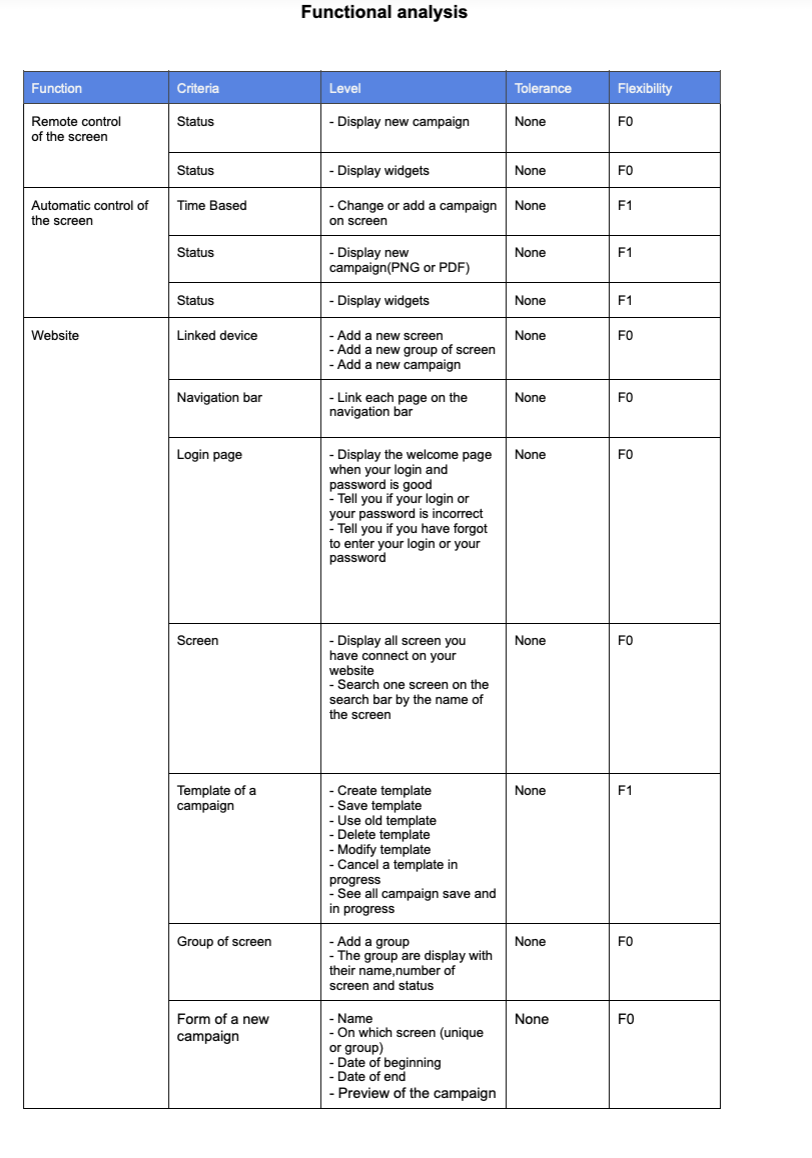
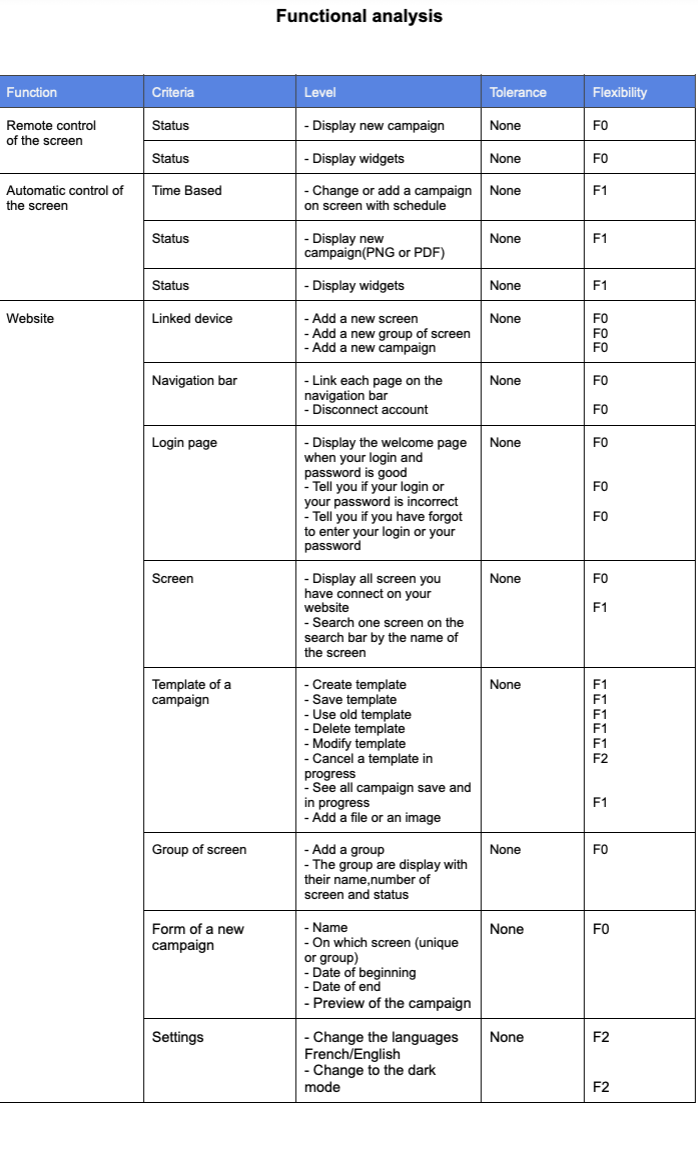
Final functional.md
Final version of the functional

diff --git a/Documents/functional/Functional.md b/Documents/functional/Functional.md
@@ -6,216 +6,220 @@ The author of this functional specification is **Robin Debry**
 <summary style="text-decoration: underline; font-size:150%">Table of contents:</summary>
 
 - [1. Introduction](#1-introduction)
-- [2. Glossary:](#2-glossary)
-- [3. Stakeholders:](#3-stakeholders)
-  - [3.1. The sponsor:](#31-the-sponsor)
-  - [3.2. The engineering team:](#32-the-engineering-team)
-- [4. Monitoring screens in the factory:](#4-monitoring-screens-in-the-factory)
-- [5. Remote control of screen in the factory:](#5-remote-control-of-screen-in-the-factory)
+- [2. Glossary](#2-glossary)
+- [3. Stakeholders](#3-stakeholders)
+  - [3.1. The sponsor](#31-the-sponsor)
+  - [3.2. The engineering team](#32-the-engineering-team)
+- [4. Monitoring screens in the factory](#4-monitoring-screens-in-the-factory)
+- [5. Remote control of the screen in the factory](#5-remote-control-of-the-screen-in-the-factory)
 - [6. Personas:](#6-personas)
-  - [6.1 Content Producer:](#61-content-producer)
-    - [6.1.1. Michael:](#611-michael)
-  - [6.2 Viewers:](#62-viewers)
-    - [6.2.1. Bertrand:](#621-bertrand)
-    - [6.2.2. Pierre:](#622-pierre)
-    - [6.2.3. Akira:](#623-akira)
-- [7. Out of scope:](#7-out-of-scope)
-- [8. User cases:](#8-user-cases)
-- [9. Functional analysis:](#9-functional-analysis)
-- [10. The technology:](#10-the-technology)
-- [11. Improvements for V2?](#11-improvements-for-v2)
-  - [11.1 Software:](#111-software)
-- [12. Non-functional requirements:](#12-non-functional-requirements)
-  - [12.1 Cost:](#121-cost)
-    - [12.1.1 Hardware:](#1211-hardware)
-    - [12.1.2 Software:](#1212-software)
+  - [6.1 Content Producer](#61-content-producer)
+    - [6.1.1. Michael](#611-michael)
+    - [6.1.2. Christine](#612-christine)
+  - [6.2 Viewers](#62-viewers)
+    - [6.2.1. Bertrand](#621-bertrand)
+    - [6.2.2. Pierre](#622-pierre)
+    - [6.2.3. Akira](#623-akira)
+- [7. Out of scope](#7-out-of-scope)
+- [8. User cases](#8-user-cases)
+- [9. Functional analysis](#9-functional-analysis)
+- [10. The technology](#10-the-technology)
+- [11. Improvements for V2](#11-improvements-for-v2)
+  - [11.1 Software](#111-software)
+- [12. Non-functional requirements](#12-non-functional-requirements)
+  - [12.1 Cost](#121-cost)
+    - [12.1.1 Hardware](#1211-hardware)
+    - [12.1.2 Software](#1212-software)
       - [Server Costs](#server-costs)
       - [Maintenance](#maintenance)
       - [Energy consumption](#energy-consumption)
-  - [12.2 Security:](#122-security)
-- [13. Conclusion:](#13-conclusion)
+  - [12.2 Security](#122-security)
+- [13. Conclusion](#13-conclusion)
 </details>
 
----  
+--- 
 
 ## 1. Introduction 
 
-Jacobi Group is world leader in purification solution of air and water, using Activated Carbon, Ion Exchange Resins and Mobile Filtration Units. With its factory in Forges industrial zone since 1956, it has a heritage of being the only French industry manufacturing this unique product and supplying customers like Veolia, Valeo, Honeywell and French Ministry of Defence to name a few. <br>
-The factory in Vierzon is the oldest in the Group however one of the most successful thanks to a flexible and can-do approach.
-Now the Jacobi group want to improve his management.
-They contacted us to created this project to improve the management of the factory
+Jacobi Group is the world leader in purification solutions for air and water, using Activated Carbon, Ion Exchange Resins, and Mobile Filtration Units. With its factory in Forge's industrial zone since 1956, it has a heritage of being the only French industry manufacturing this unique product and supplying customers like Veolia, Valeo, Honeywell, and the French Ministry of Defence, to name a few. <br>
+The factory in Vierzon is the oldest in the Group. However, one of the most successful is thanks to a flexible and can-do approach.
+Now the Jacobi group wants to improve its management.
+They contacted us to create this project to improve the management of the factory.
 
-
-## 2. Glossary:
+## 2. Glossary
 
 - **Jacobi:** The company that we are working for.
-- **GDPR:** The european law that protect the data of the people.
+- **GDPR:** European law protects the data of the people.
 - **HTML:** (HyperText Markup Language) We use this language to create a web page. It is the skeleton of the page. We write all the content as well as its structure. It is the language that the browser understands.
-- **CSS:** (Cascading Style Sheets) This language completes HTML. It allows to format and make more ergonomic the website. It is the flesh that embellishes the skeleton.
+- **CSS:** (Cascading Style Sheets) This language completes HTML. It allows formatting and makes the website more ergonomic. It is the flesh that embellishes the skeleton.
 - **JS:** (JavaScript) It's an object-oriented scripting language. This means that we can make the elements that make up the website dynamic. It is the muscles and joints of the site.
 - **Firebase:** It's a service that allows us to store data in the cloud. It is a database that is hosted on the internet. It is a service that allows us to store data in the cloud. It is a database that is hosted on the internet.
 - **Stakeholders:** The people who are interested in the project.
 
-## 3. Stakeholders:
+## 3. Stakeholders
 
-During this project for Jacobi, there are 2 different kind of stakeholders.
 
-### 3.1. The sponsor:
+During this project for Jacobi, there are two different kinds of stakeholders.
+
+### 3.1. The sponsor
 
 First of all, there is the client, at the beginning of the project it will be represented by Franck JEANNIN, but after it, it will be directly the sponsor: Jacobi. <br>
 
-At Jacobi the aim is to become the most sustainable supplier in the industry. they put their all into their sustainability programmes and do everything we can to have a positive impact on our planet and environment. Their processes are refined so that we make use of any surplus energy, we invest in local communities across the globe, and they are constantly looking for ways to reduce our carbon footprint. They are proud to be a part of the Jacobi Group and they are committed to making a difference. <br> 
+At Jacobi, the aim is to become the most sustainable supplier in the industry. They put their all into their sustainability programs and do everything they can to have a positive impact on our planet and environment. Their processes are refined so that we make use of any surplus energy, we invest in local communities across the globe, and they are constantly looking for ways to reduce our carbon footprint. They are proud to be a part of the Jacobi Group and they are committed to making a difference. <br> 
 
 The Jacobi team who works on this project is composed of:
 - Project owner, Mr. Usman SAEED.
 - Content creator, Mrs. Karen BLANQUE (HR Assistant), Mr. Pierre PAGE (HR Manager), Mr. Nicolas YVELIN (Factory Manager)
-- Power user, Mrs. Karen Blanque
+- Power-user, Mrs. Karen Blanque
 - On-site Installation Manager, Mr. Samuel NEVES (Maintenance Shop Manager)
 
-### 3.2. The engineering team:
+### 3.2. The engineering team
 
-The second stakeholders type is the engineering team who will directly work on the development and the conception of the project. This team his made of 5 people: <br>
+The second stakeholder type is the engineering team who will directly work on the development and the conception of the project. This team is composed of 5 people: <br>
 * Quentin CLEMENT as the project manager.
 * Robin DEBRY as the program manager.
 * Thomas PLANCHARD as the software engineer.
 * Karine VINETTE as the tech lead.
 
-## 4. Monitoring screens in the factory:
+## 4. Monitoring screens in the factory
 
-The most important part for Jacobi is the communication between the factory and the people who work there. It's for that they need a website to display some information by a screen to inform all of employees. <br>
+The most important part for Jacobi is the communication between the factory and the people who work there. It's because they need a website to display some information on a screen to inform all of the employees. <br>
 The importance of the screens in the company is to inform the employees about the news of the company.<br>
-The screens are used to display the news of the company, the weather, the time, the news of the world, the news of the factory, the news of the employees, the news of the canteen, the news of the meeting room, the news of the reception and the news of the locker room. Also you will have information if someone visiting the factory and it will be display for the good room <br>
+The screens are used to display the news of the company, the weather, the time, the news of the world, the news of the factory, the news of the employees, the news of the canteen, the news of the meeting room, the news of the reception and the news of the locker room. Also, you will have information if someone visits the factory and it will be displayed for the good room <br>
 The monitoring of the screen is the main point of the development of this project. <br>
-The user will use an application connected to the others screens with a Wi-Fi connection. <br>
-because of the GDPR, the user will have to log in to the application to be able to see the content of the screen.Also, the user can stay connected to the application without reconnect every time he wants to see or change the content of the screen. <br>
-He should be able to see if the screen is on, if it is off, the actual connection of the screen (with Wi-Fi bar) and the time since the screen is connect (in hours and minutes). <br>
-This function will really be an informative one, it has the role of informing the user of the status of the screen in real time.
+The user will use an application connected to the other screens with a Wi-Fi connection. <br>
+because of the GDPR, the user will have to log in to the application to be able to see the content of the screen. Also, the user can stay connected to the application without reconnecting every time he wants to see or change the content of the screen. <br>
+He should be able to see if the screen is on if it is off, the actual connection of the screen (with Wi-Fi bar) and the time since the screen is connected (in hours and minutes). <br>
+This function will be an informative one, it has the role of informing the user of the status of the screen in real-time.
 
-## 5. Remote control of screen in the factory:
+## 5. Remote control of the screen in the factory
 
 The importance of the remote control of the screen is to be able to change the content of the screen without having to go to the screen. <br>
-Also, the user will be able to change the content of the screen without having to log everytime into the application. <br>
+Also, the user will be able to change the content of the screen without having to log in every time the application. <br>
 The user will be able to schedule the content of the screen for a precise day and a precise hour <br>
 
 The remote control of the screen is the second parameter to consider during this project. <br>
-The user will be able to manage the others screens via an application. The user will be able to change the campaign who want on the screen and choose for which screen he want to apply this campaign(one screen or multiple screen).<br>
-The user will also be able to configure an automatic on/off time that he will be able to change at anytime with some precise hours.
+The user will be able to manage the other screens via an application. The user will be able to change the campaign he wants on the screen and choose for which screen he wants to apply this campaign(one screen or multiple screens).<br>
+The user will also be able to configure an automatic on/off time that he will be able to change at any time with some precise hours.
 
 This will be the interactive features between the screen and the user.
 
 ## 6. Personas:
 
-### 6.1 Content Producer:
+### 6.1 Content Producer
 
-The content producer is the person who will create or/and implement the content of the screen.
+The content producer is the person who will create or/and implement the content on the screen.
 He will be able to create a campaign and choose the content of the campaign. <br>
 
-#### 6.1.1. Michael:
-Michael has been the content creator of Jacobi since April 2022. He is 43 years old married with 2 children who are now adults. He loves sport and road trips with his husband during his free time. he lives in Bourges, he takes the train every morning and evening. <br>
-His job is to recruit people in the company and he will produce some content to the others screen. <br>
+#### 6.1.1. Michael
+Michael has been the content creator of Jacobi since April 2022. He is 43 years old, married with two children who are now adults. He loves sports and road trips with his husband during his free time. He lives in Bourges. He takes the train every morning and evening. <br>
+His job is to recruit people in the company and he will produce some content for the other's screen. <br>
 He is a power user of the application and he will use it to manage the screen in the company.<br>
 With these improvements, he will inform the workers of the company if there is a problem in the factory and he will be able to inform them of the new campaign of the company.<br>
-Also with the website she will be able to know if a screen is on or off and if it is connected to the Wi-Fi.
+Also with the website she will be able to know if a screen is turned on or turned off and if the screen is connected to the Wi-Fi.
 
-### 6.2 Viewers:
+#### 6.1.2. Christine
+Christine has been the CEO of Jacobi since January 2022 and she is 45 years old. She is married with four children who are now adults. She loves reading during her free time. She lives in Paris, she takes the train every morning and evening. <br>
+Christine has an account for the website. With this when Michael is not here Christine will be able to create a campaign or add a new screen, and see the status of them as Michael did. Christine will be happy because it can be useful to have one account for each person responsible for the Jacobi group with that if they are not here another responsible can tell some information to their workers <br>
+
+### 6.2 Viewers
 
 The viewers are the people who will see the content of the screen. <br>
 
-#### 6.2.1. Bertrand:
+#### 6.2.1. Bertrand
 
-Bertrand is a technician at Jacobi since 2019. He is 32 years old, married and has 4 children, and lives in Méreau with them. He loves food and spending time with her friends. <br>
-His job is to install and repair the machine in the factory. He also has to make control of every machine one time a month to know if it needs a reparation. <br>
-Michel will have the role "Technician", he will be able to check if TV is on or not. With the website, he will be able to avoid this monthly intervention and he will only intervene if Michel sees that the TV has a problem and it needs to be repaired.<br> 
+Bertrand has been a technician at Jacobi since 2019. He is 32 years old, married and has four children, and lives in Méreau with them. He loves food and spending time with her friends. <br>
+His job is to install and repair the machine in the factory. He also has to take control of every machine one time a month to know if it needs repair. <br>
+He will be able to check if TV is on or not. With the website, he will be able to avoid the intervention and he will only intervene if Michael or Christine sees that the TV has a problem and it needs to be repaired.<br> 
 It will reduce the frequency of his verification in the factory and will be able to replace the time lost with the Television to do other tasks.
 
-#### 6.2.2. Pierre:
+#### 6.2.2. Pierre
 
-Pierre is a worker at Jacobi since 2019. He is 32 years old, married and has 1 child, and lives in Bourges with them. He loves sport. <br>
-He work in the production part of the factory. He will see the content of the screen in the factory everyday. <br>
-Also Pierre want to know if a customer is coming in the factory. He will be able to see it on the screen and he will be able to prepare the machine to produce the product that the customer want. <br>
+Pierre has been a worker at Jacobi since 2012. He is 36 years old, married and has one child, and lives in Bourges with them. He loves sports. <br>
+He works in the production part of the factory. He will see the content of the screen in the factory every day. <br>
+Also, Pierre wants to know if a customer is coming to the factory. He will be able to see it on the screen and he will be able to prepare the machine to produce the product that the customer wants. <br>
 He will also be able to see if there is a problem in the factory.<br>
 
-#### 6.2.3. Akira:
+#### 6.2.3. Akira
 
-Akira is a Japanese customer who is coming to visit the factory. She is 32 years old, married and has 1 child, and lives in Tokyo with them. She loves french food. <br>
-She will come to visit the factory to see how the product is made. She will be able to see the content of the screen select by the content producer. She will have some places where she can't enter for privacy. <br>
+Akira is a Japanese customer who is coming to visit the factory. She is 49 years old, married and has one child, and lives in Tokyo with them. She loves french food. <br>
+She will come to visit the factory to see how the product is made. She will be able to see the content of the screen selected by the content producer. She will have some places where she can't enter for privacy. <br>
 
 
 
-## 7. Out of scope:
+## 7. Out of scope
 Due to time and resources constraints, these features might be included in the upcoming versions:
 - Different languages for the website in the future
 - Display the campaigns on the screen in Paris
 
-## 8. User cases:
+## 8. User cases
 
 ![UserCase](img/user_case.png)
 
-## 9. Functional analysis:
+## 9. Functional analysis
 
 For this project to be considered done, we need to have at least the following specifications :
 
-|Flexibility | importance                      |
+|Flexibility | importance |
 | ---------- | ------------------------------- |
-| F0         | mandatory                       |
-| F1         | important (product performance) |
-| F2         | secondary (nice to have)        |
+| F0 | mandatory |
+| F1 | important (product performance) |
+| F2 | secondary (nice to have) |
 
 ![UserCase](img/functionalAnalysis.png)
 
-## 10. The technology:
+## 10. The technology
 
-The hardware we will use is just a simple monitor. Moreover we need a little computer.<br>
-The software we will use is a web application. this application will be related with the simple monitor with the help of a little computer. <br>
+The hardware we will use is just a simple monitor. Moreover, we need a little computer.<br>
+The software we will use is a web application. This application will be related to the simple monitor with the help of a little computer. <br>
 
-## 11. Improvements for V2?
+## 11. Improvements for V2
 
-### 11.1 Software:
+### 11.1 Software
 
-The following step of this project is to create the application for the users to let them control a lot of screens. It will be improve in the following months.
+The following step of this project is to create an application for the users to let them control many screens. It will be improved in the following months.
 
-## 12. Non-functional requirements:
+## 12. Non-functional requirements
 
-### 12.1 Cost:
+### 12.1 Cost
 
-#### 12.1.1 Hardware:
+#### 12.1.1 Hardware
 
 The hardware is composed of a monitor and a little computer. <br>
 The monitor is a 50" monitor with a resolution of 3840x2160 4K. <br>
-The little computer is a micro PC 4K Wi-Fi 5 Gigabit Ethernet. <br>
+The little computer is a micro PC with 4K Wi-Fi and 5 Gigabit Ethernet. <br>
 The total cost of the hardware is €1856 including taxes because we need 2 screens and 2 little computers <br>
 
-#### 12.1.2 Software:
+#### 12.1.2 Software
 
 ##### Server Costs
 
-The database we will use is Firebase. Firebase is free we will only pay the name domain is average €15 <br>
-The total cost of the server is €15/year <br>
+The database we will use is Firebase. Firebase is free we will only pay the name domain is average €15.<br>
+The total cost of the server is €15/year.<br>
 
 ##### Maintenance
-- The monitor: Should be changed every 7/8 years but you have 2 years of guaranteed.<br>
-- The mini computer: Should last at least 4 years.<br>
+- The monitor: Should be changed every seven or eight years but you have two years of guarantee.<br>
+- The mini-computer: Should last at least four years.<br>
 
 ##### Energy consumption
 Energy Consumption of the screen: 
 0,147Wh, the screen will be on 24/24h so the energy consumption will be 0,147 KWh * 24h * 365 days = 1288.60 KWh for one year. <br>
-The price of 1KWh is €0,1394 to have the total cost of a screen it's the price of 1KWh multiply by the number of KWh used for one year. 1288.60 KWh * €0,1394 = €179.63 <br>
+The price of 1KWh is €0,1394 to have the total cost of a screen. It's the price of 1KWh multiplied by the number of kWh used for one year. 1288.60 KWh * €0,1394 = €179.63 <br>
 The total cost for one screen is €179.63 per years.<br>
 
 
-### 12.2 Security:
+### 12.2 Security
 
-- Following the GDPR, we will have to make sure that the data is not shared with anyone else than the user. <br>
+- Following the GDPR, we will have to make sure that the data is not shared with anyone other than the user. <br>
 - Availability: By using the Wi-Fi of the factory Jacobi with it we can ensure that the product will be available 24/7.
 - Confidentiality/Privacy: All the passwords are encrypted.
 - Traceability: we use a logging system that provides the modification made by the user and the date of the modification.
 
-## 13. Conclusion:
+## 13. Conclusion
 
-In spite of the specifications transmitted by Jacobi, a lot of freedom was voluntarily left to us so that we could find ideas which they had not necessarily thought of. <br>
+Despite the specifications transmitted by Jacobi, a lot of freedom was voluntarily left to us so that we could find ideas that they had not necessarily thought of. <br>
 
-Thanks to the communication between the stakeholders we were able to imagine and develop a rich project in the image of ALGOSUP and Jacobi. <br>
+Thanks to the communication between the two stakeholders with it we were able to imagine and develop a rich project in the image of ALGOSUP and Jacobi. <br>
 
 <b><u>Author:</u></b>
 Debry Robin
-
